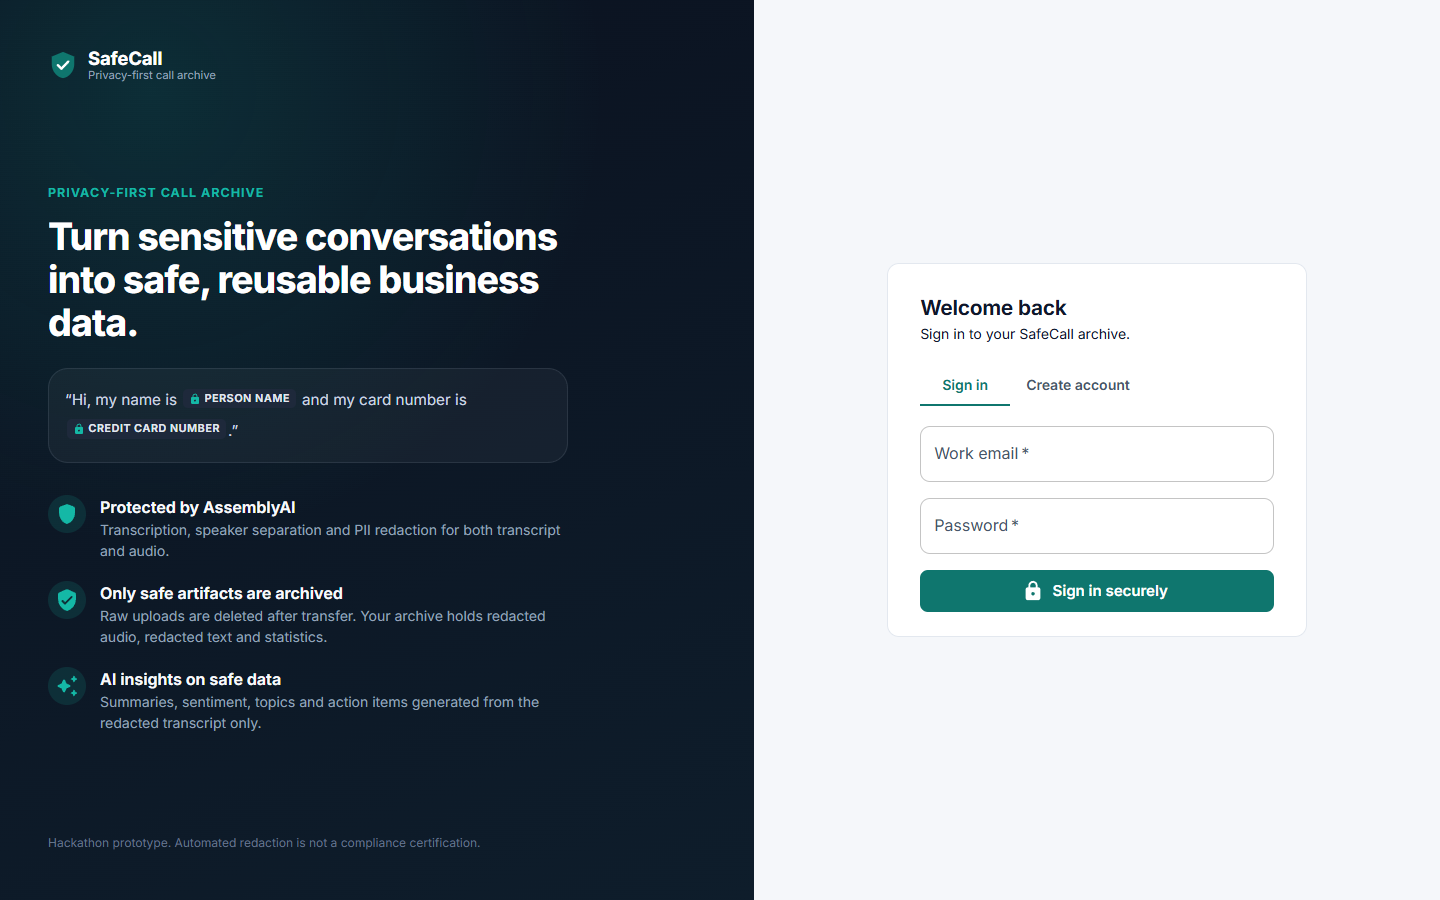
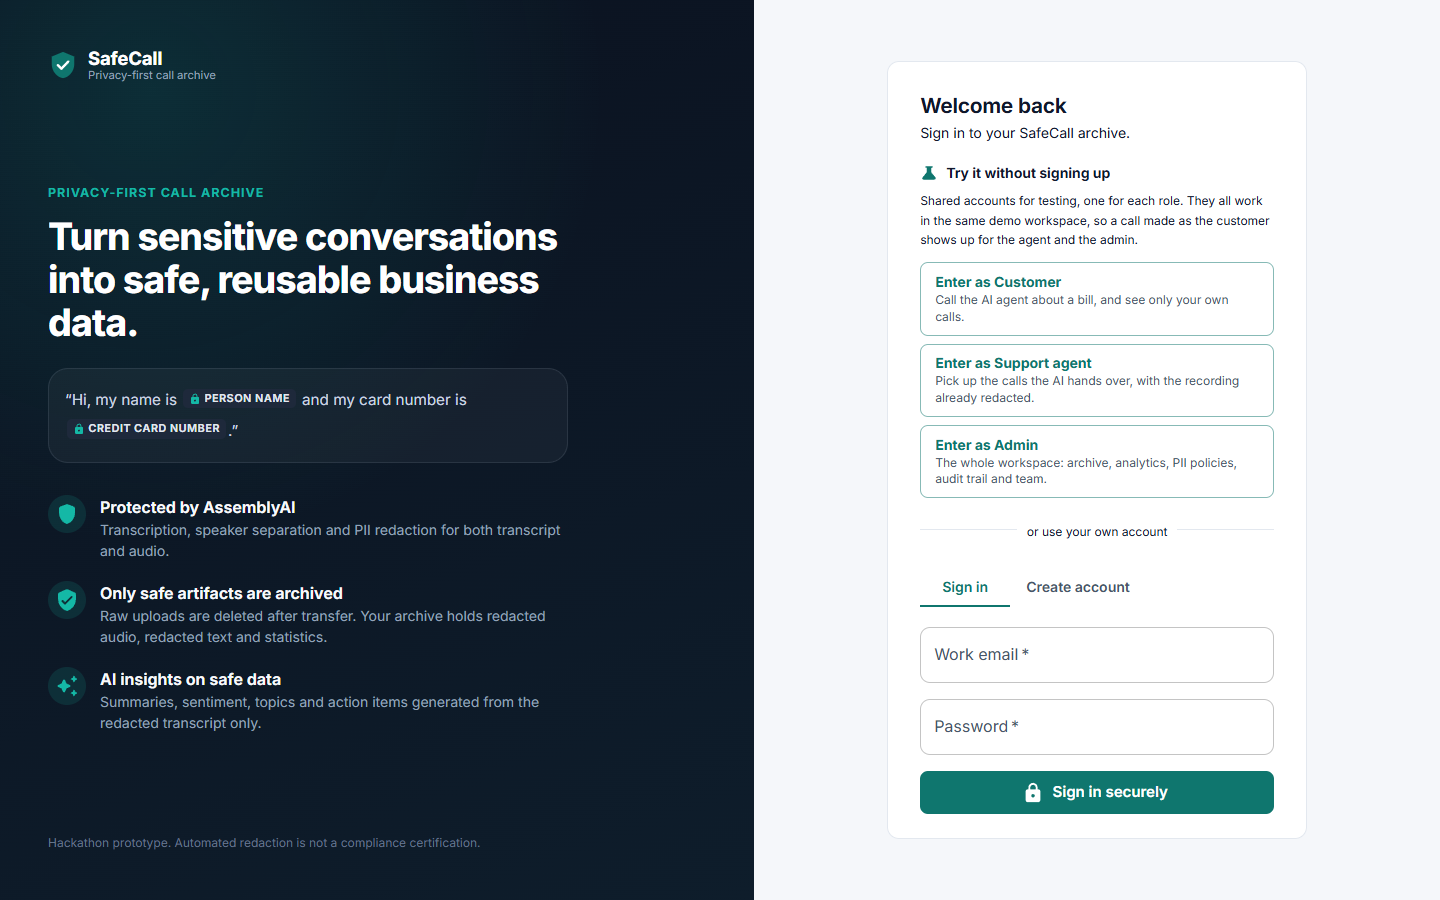
Retake the screenshots, one per role
The old set showed a console that no longer exists, from before the
customer view, escalations and the team page. The script wanted an email
and a password; it now signs in through the demo logins instead, so
anyone with the repo and a running instance can regenerate the set with
no credentials, and it walks all three roles rather than only the admin.

Two things the new shots exposed, both fixed here rather than cropped
out. A support agent's sidebar said "Dashboard" while showing the
escalation queue, because the queue was rendered at "/" — it now
redirects, so the nav highlights where they actually are, and the
dashboard link is hidden from roles that have no dashboard. The same
page offered a "Live agent" button that would have returned 403.

The Team page prints a working invite code, valid for a week, so the
script masks it before capturing.

diff --git a/frontend/src/pages/FollowUpsPage.tsx b/frontend/src/pages/FollowUpsPage.tsx
@@ -77,6 +77,7 @@ function FollowUpRow({ item, onResolved }: { item: FollowUp; onResolved: (id: st
 }
 
 export function FollowUpsPage() {
+  const canCall = useCan('agent:call');
   const queue = useApiQuery(() => api.followUps(), [], { poll: 20_000 });
   const items = queue.data?.items ?? [];
 
@@ -88,9 +89,11 @@ export function FollowUpsPage() {
         title="Escalations"
         subtitle="Calls the AI agent handed to a person. Only the reason travels with the call — the transcript here is already redacted."
         actions={
-          <Button component={RouterLink} to="/agent" variant="outlined" startIcon={<HeadsetMicRounded />}>
-            Live agent
-          </Button>
+          canCall ? (
+            <Button component={RouterLink} to="/agent" variant="outlined" startIcon={<HeadsetMicRounded />}>
+              Live agent
+            </Button>
+          ) : undefined
         }
       />
       {queue.error && (

diff --git a/frontend/src/layouts/AppLayout.tsx b/frontend/src/layouts/AppLayout.tsx
@@ -37,7 +37,7 @@ import { brand } from '../theme';
 const DRAWER_WIDTH = 252;
 
 const NAV: Array<{ to: string; label: string; icon: ReactNode; end?: boolean; permission?: Permission }> = [
-  { to: '/', label: 'Dashboard', icon: <SpaceDashboardRounded />, end: true },
+  { to: '/', label: 'Dashboard', icon: <SpaceDashboardRounded />, end: true, permission: 'calls:browse' },
   { to: '/agent', label: 'Live agent', icon: <HeadsetMicRounded />, permission: 'agent:call' },
   { to: '/escalations', label: 'Escalations', icon: <SupportAgentRounded />, permission: 'followups:read' },
   { to: '/upload', label: 'Upload call', icon: <CloudUploadRounded />, permission: 'calls:upload' },

diff --git a/frontend/src/App.tsx b/frontend/src/App.tsx
@@ -65,7 +65,10 @@ function Home() {
   const me = useMe();
   if (!me) return <FullPageSpinner />;
   if (me.user.role === 'customer') return <CustomerHomePage />;
-  if (!me.user.permissions.includes('analytics:read') && me.user.permissions.includes('followups:read')) return <FollowUpsPage />;
+  // Redirect rather than render, so the sidebar highlights where they actually are.
+  if (!me.user.permissions.includes('analytics:read') && me.user.permissions.includes('followups:read')) {
+    return <Navigate to="/escalations" replace />;
+  }
   return <DashboardPage />;
 }
 

diff --git a/README.md b/README.md
@@ -8,7 +8,7 @@ Built for the **AssemblyAI Voice Agent Hackathon (lablab.ai, September 2026)**.
 
 > **Disclaimer.** SafeCall is a hackathon prototype demonstrating privacy-oriented call-data processing. Automated PII detection/redaction should not be represented as a universal legal-compliance certification or a substitute for an organization's legal, security, privacy, and governance controls.
 
-![Call detail](docs/screenshots/05-call-detail.png)
+![Call detail](docs/screenshots/07-call-detail.png)
 
 ---
 
@@ -341,15 +341,23 @@ All sample data is synthetic: 555-01xx phone numbers, `example.com` emails, and 
 
 ## Screenshots
 
+**The three ways in**
+
 | | |
 | --- | --- |
-| ![Login](docs/screenshots/01-login.png) Login | ![Dashboard](docs/screenshots/02-dashboard.png) Dashboard |
-| ![Upload](docs/screenshots/03-upload.png) Upload | ![Processing](docs/screenshots/04-processing.png) Processing |
-| ![Call detail](docs/screenshots/05-call-detail.png) Safe archive | ![Search](docs/screenshots/06-search.png) Search |
-| ![Analytics](docs/screenshots/07-analytics.png) Analytics | ![Policies](docs/screenshots/08-policies.png) Policies |
-| ![Audit](docs/screenshots/09-audit.png) Audit trail | |
+| ![Login](docs/screenshots/01-login.png) Sign in, or enter as one of the three roles | ![Customer](docs/screenshots/02-customer.png) The customer: a phone line and their own calls |
+| ![Escalations](docs/screenshots/03-escalations.png) The support agent: calls the AI handed over | ![Dashboard](docs/screenshots/04-dashboard.png) The admin console |
 
-These are the staff console. To regenerate them against a running instance: `cd frontend; $env:SAFECALL_EMAIL="…"; $env:SAFECALL_PASSWORD="…"; node scripts/screenshots.mjs` (uses the installed Microsoft Edge).
+**The console**
+
+| | |
+| --- | --- |
+| ![Live agent](docs/screenshots/05-live-agent.png) Live agent | ![Upload](docs/screenshots/06-upload.png) Upload |
+| ![Call detail](docs/screenshots/07-call-detail.png) Safe archive | ![Search](docs/screenshots/08-search.png) Search |
+| ![Analytics](docs/screenshots/09-analytics.png) Analytics | ![Policies](docs/screenshots/10-policies.png) PII policies |
+| ![Audit](docs/screenshots/11-audit.png) Audit trail | ![Team](docs/screenshots/12-team.png) Team |
+
+To regenerate them against a running instance: `cd frontend; node scripts/screenshots.mjs` (uses the installed Microsoft Edge). It signs in through the demo logins, so no credentials are needed, and it masks the workspace's invite code before capturing the Team page.
 
 ## API endpoints
 
